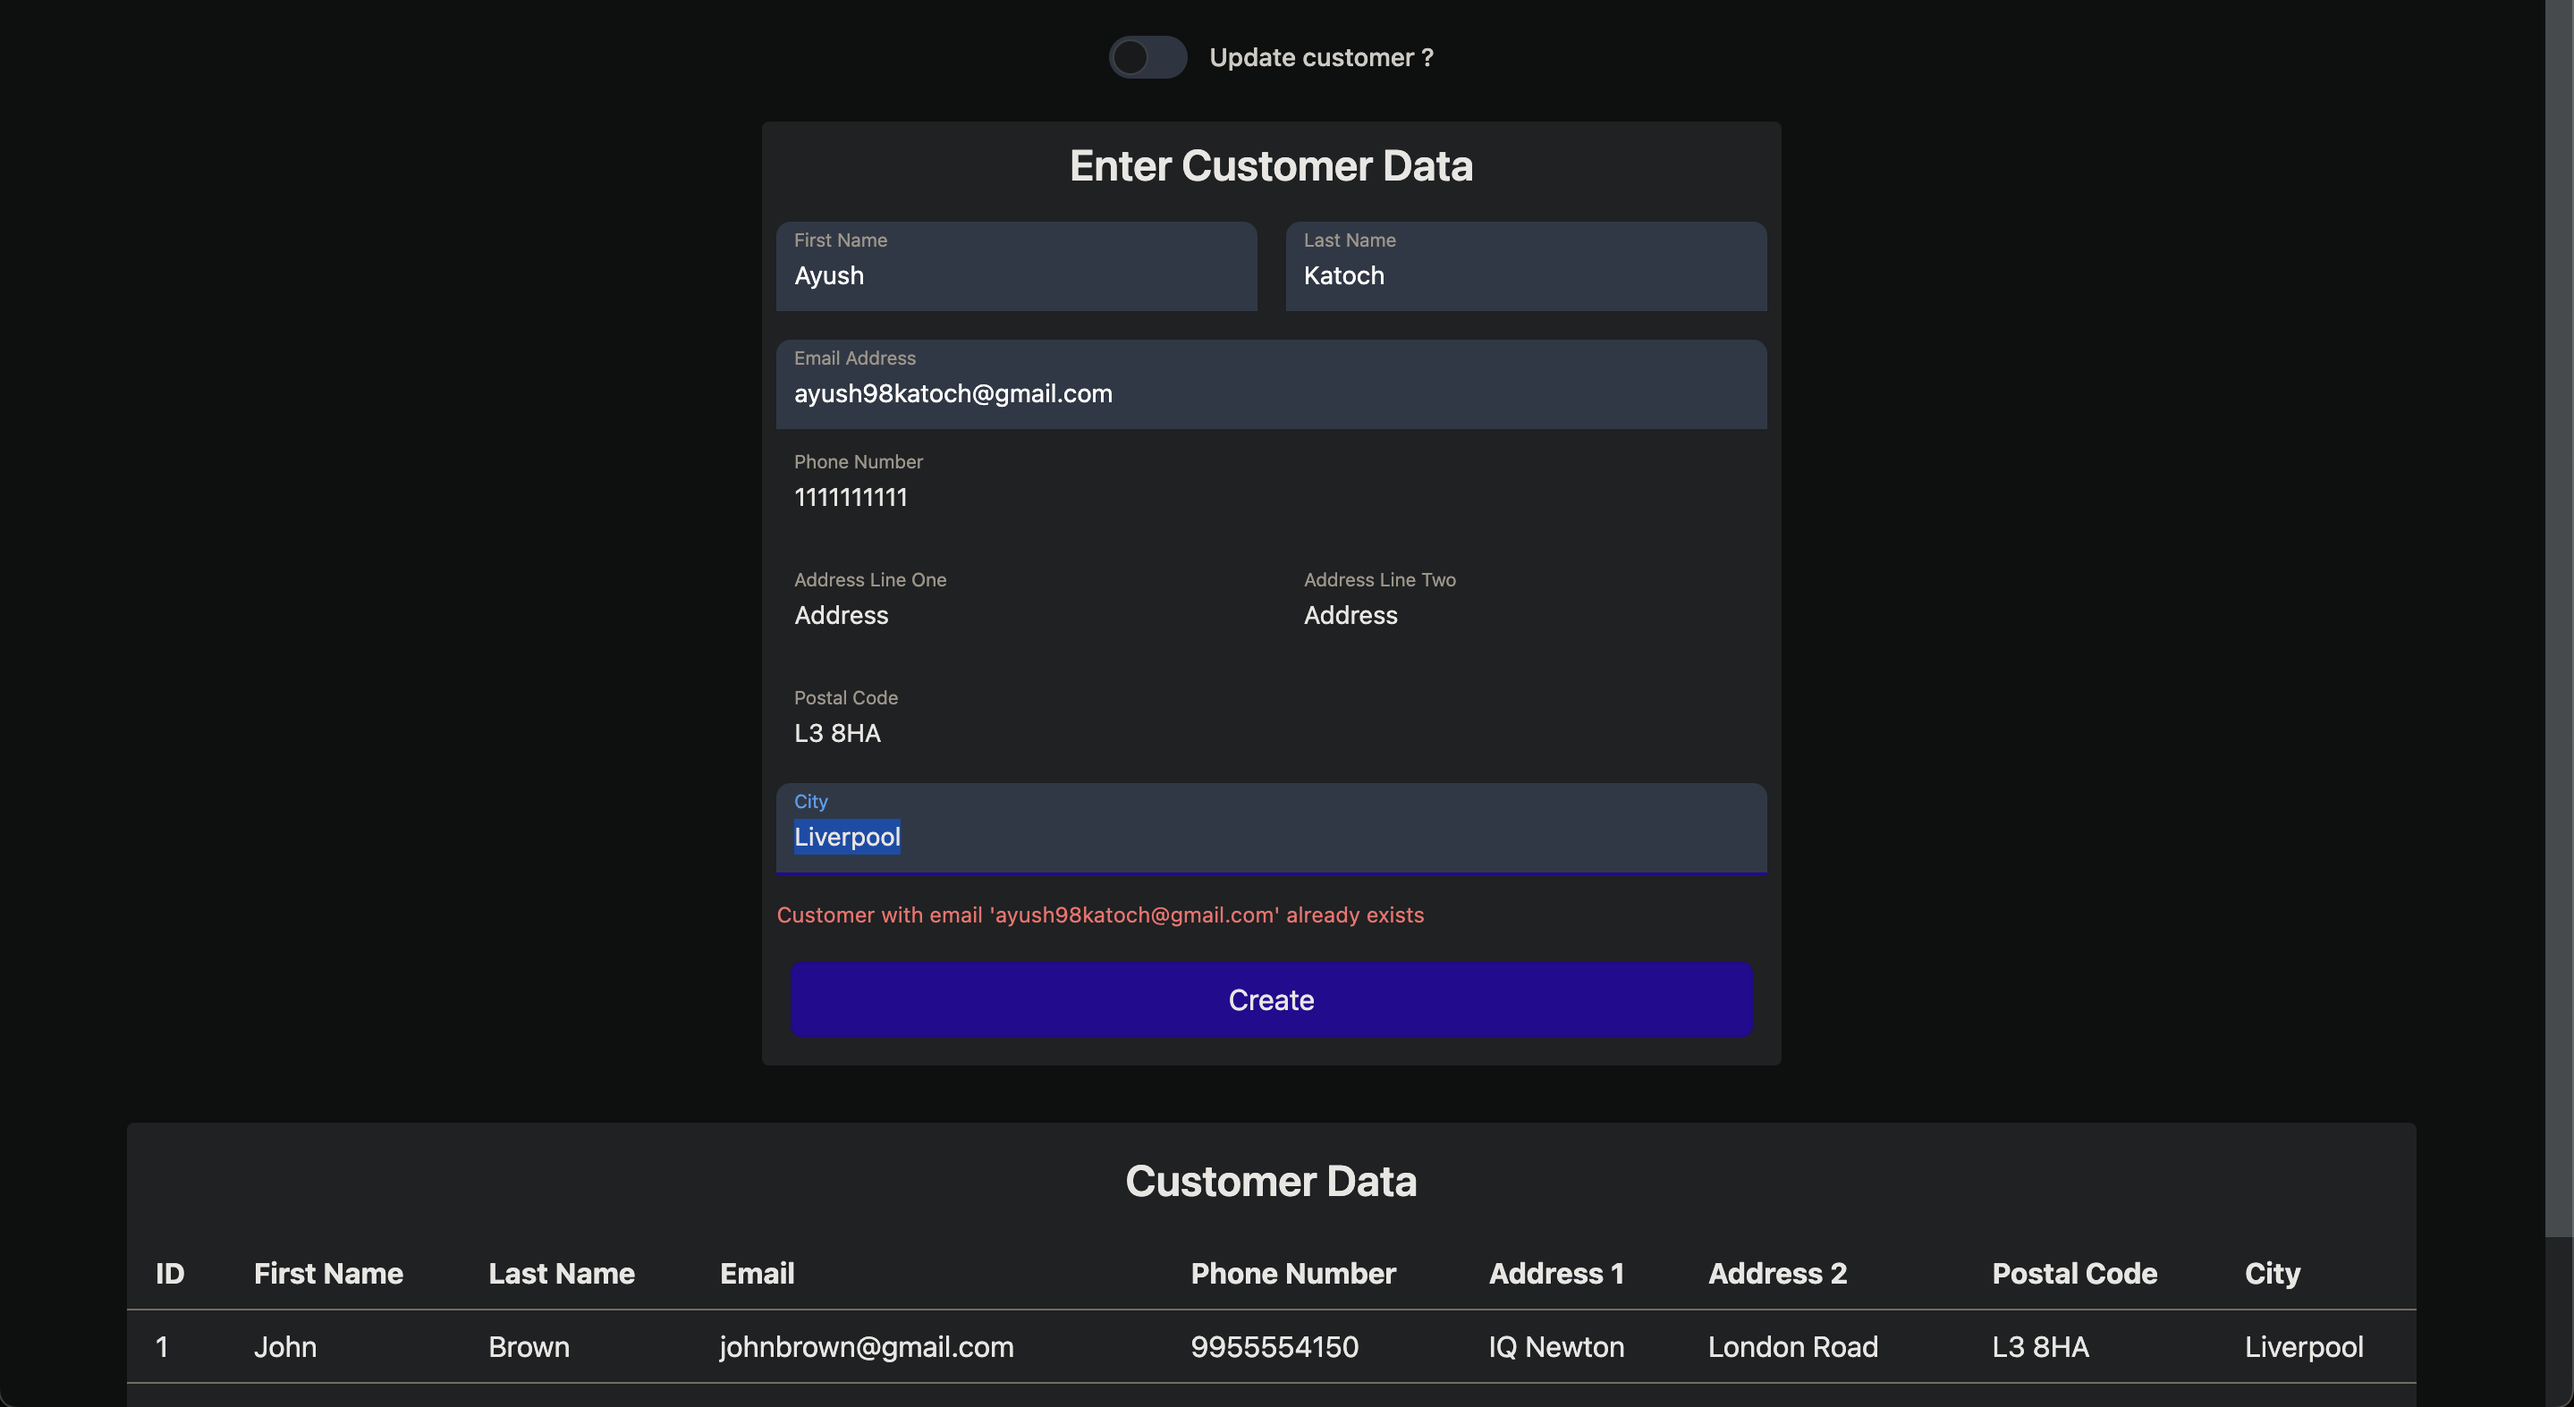
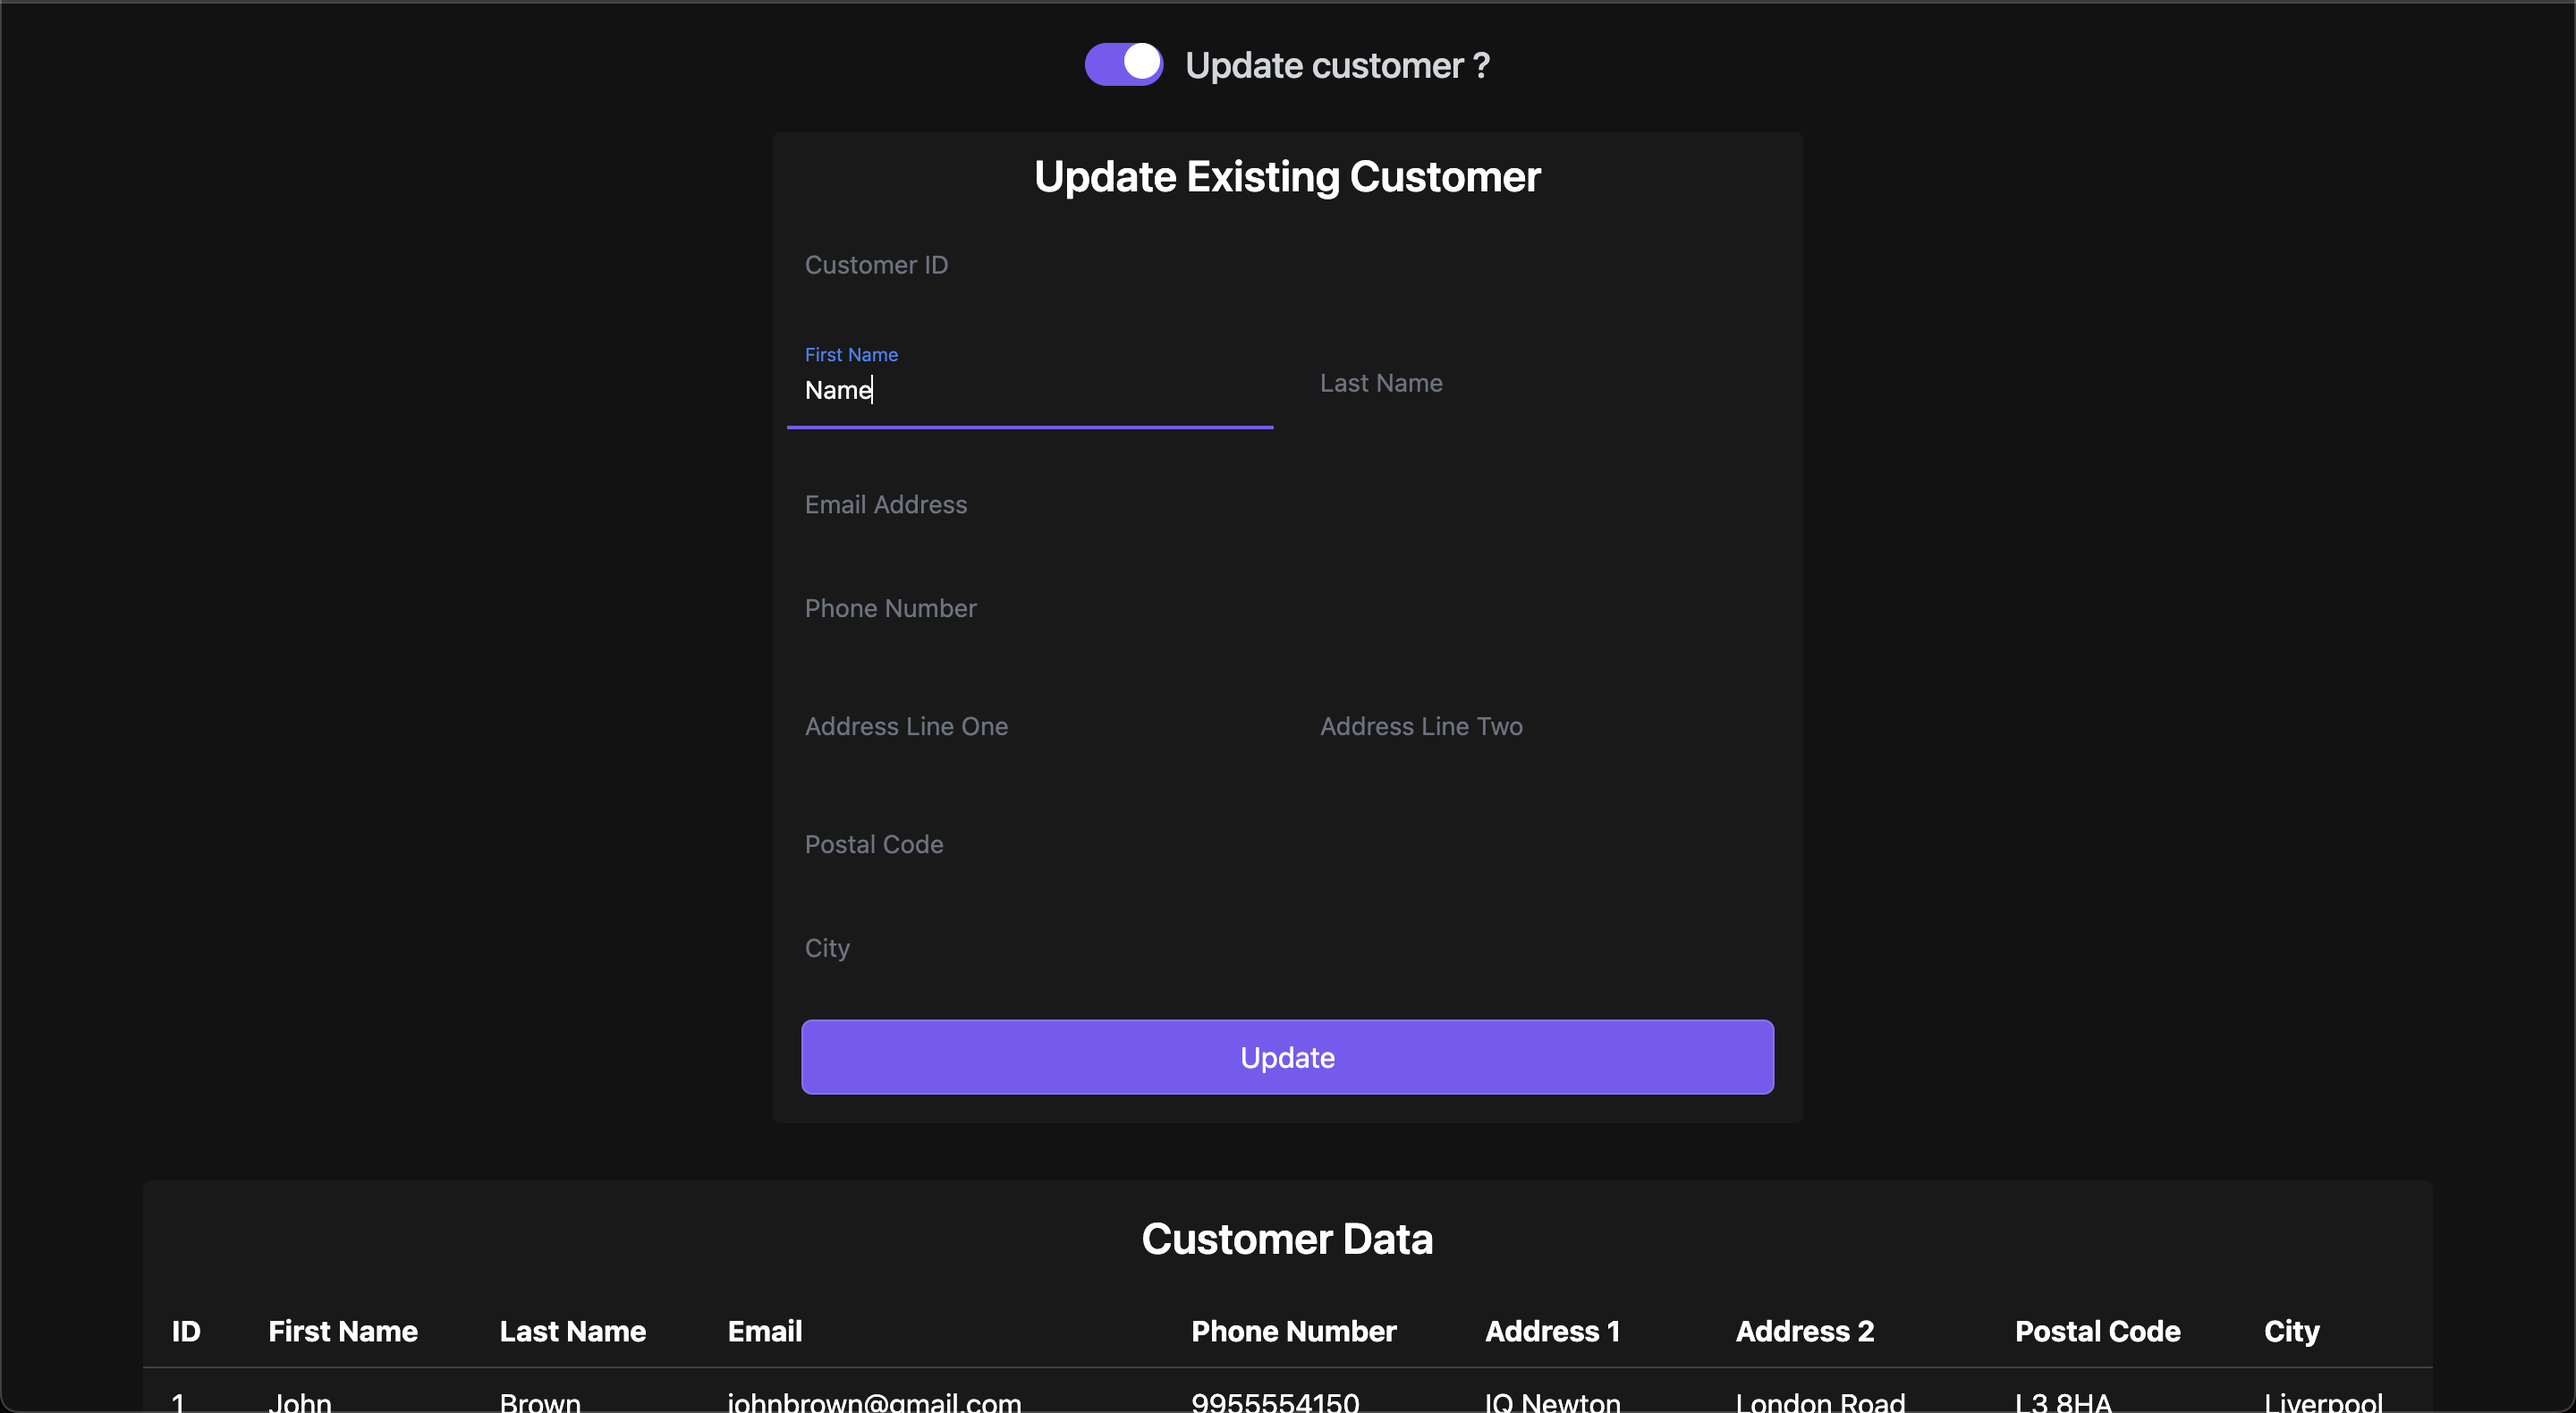
changed photos + fixed ui issues

diff --git a/frontend/src/views/Home.vue b/frontend/src/views/Home.vue
@@ -6,9 +6,9 @@
             <label class="relative inline-flex items-center cursor-pointer">
                 <input v-model="toggleButtonState" type="checkbox" value="" class="sr-only peer">
                 <div
-                    class="w-11 h-6 bg-custom-accent peer-focus:outline-none peer-focus:ring-4 peer-focus:ring-blue-300 dark:peer-focus:ring-blue-800 rounded-full peer dark:bg-gray-700 peer-checked:after:translate-x-full rtl:peer-checked:after:-translate-x-full peer-checked:after:border-white after:content-[''] after:absolute after:top-[2px] after:start-[2px] after:bg-white after:border-gray-300 after:border after:rounded-full after:h-5 after:w-5 after:transition-all dark:border-gray-600 peer-checked:bg-blue-600">
+                    class="w-11 h-6 bg-custom-accent peer-focus:outline-none peer-focus:ring-4 peer-focus:ring-custom-accent dark:peer-focus:ring-custom-accent-light rounded-full peer dark:bg-gray-700 peer-checked:after:translate-x-full rtl:peer-checked:after:-translate-x-full peer-checked:after:border-white after:content-[''] after:absolute after:top-[2px] after:start-[2px] after:bg-white after:border-gray-300 after:border after:rounded-full after:h-5 after:w-5 after:transition-all dark:border-gray-600 peer-checked:bg-custom-accent">
                 </div>
-                <span class="ms-3 text-sm font-medium text-white dark:text-gray-300">Update customer ?</span>
+                <span class="ms-3 text-xl font-medium text-white dark:text-gray-300">Update customer ?</span>
             </label>
 
         </div>

diff --git a/frontend/src/components/CustomerForm.vue b/frontend/src/components/CustomerForm.vue
@@ -1,5 +1,5 @@
 <template>
-    <div class="m-2 shadow bg-custom-bg-light shadow-gray-400 rounded h-fit w-full sm:w-2/5">
+    <div class="m-2 shadow bg-custom-bg-light  rounded h-fit w-full sm:w-2/5">
         <div class="">
             <h2 class="text-2xl m-2 text-white font-semibold text-center">{{ header }}</h2>
 
@@ -261,6 +261,7 @@ const onFormSubmit = async (event) => {
             props.addNewCustomerData(res.data);
         }
         else{
+            if (data.id == '') data.id = -1;
             res = await axiosInstance.put('/api/user/' + data.id, data)
             // props.modifyCustomerData(res.data);
             res.data.id = parseInt(res.data.id)

diff --git a/frontend/src/components/ListCustomer.vue b/frontend/src/components/ListCustomer.vue
@@ -1,5 +1,5 @@
 <template>
-    <div class="container bg-custom-bg-light m-4 p-0 text-white shadow shadow-gray-700 rounded">
+    <div class="container bg-custom-bg-light m-4 p-0 text-white  rounded">
         <h2 class="text-2xl text-center font-semibold m-4 flex-wrap-">Customer Data</h2>
 
         <!-- Table -->

diff --git a/frontend/index.html b/frontend/index.html
@@ -6,7 +6,7 @@
     <meta name="viewport" content="width=device-width, initial-scale=1.0">
     <title>Vite App</title>
   </head>
-  <body>
+  <body style="height:100%;width: 100%;margin: 0;padding: 0;">
     <div id="app"></div>
     <script type="module" src="/src/main.js"></script>
   </body>

diff --git a/frontend/tailwind.config.js b/frontend/tailwind.config.js
@@ -6,7 +6,7 @@ export default {
     extend: {
       colors: {
         "custom-bg" : "#121212",
-        "custom-bg-light" : "#282828",
+        "custom-bg-light" : "#191919",
         "custom-accent" : "#7a5af5",
         "custom-accent-light" : "#9171f8",
       }

diff --git a/frontend/src/assets/main.css b/frontend/src/assets/main.css
@@ -1,3 +1,11 @@
 @tailwind base;
 @tailwind components;
 @tailwind utilities;
+
+
+html, body{
+    margin: 0;
+    padding: 0;
+    height: 100%;
+    width: 100%;
+}
